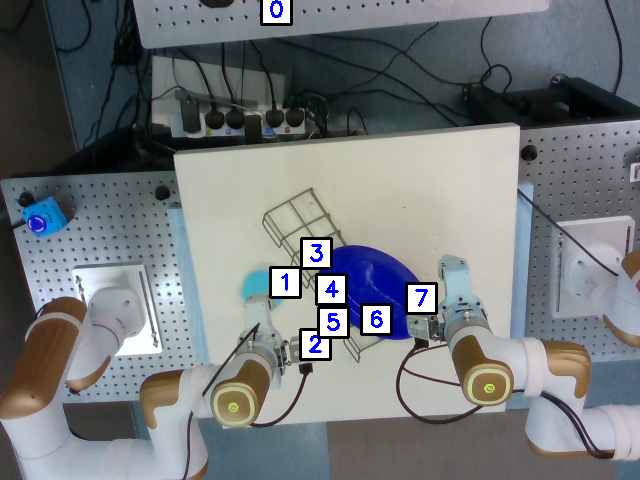
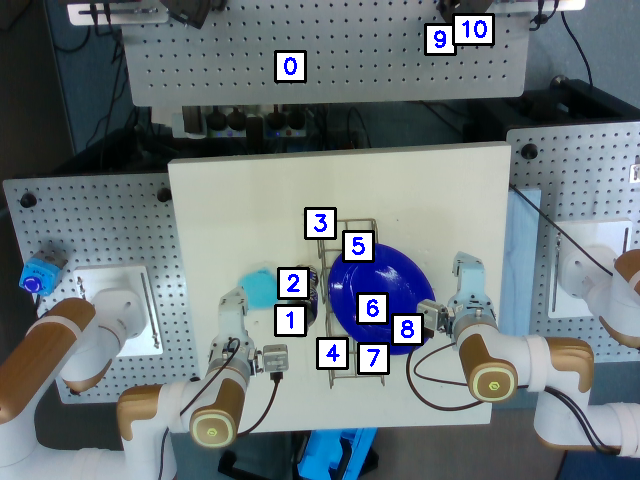
finish the experiments for task-compatiable DP guidance (coarse guidance by gamma ratio)

diff --git a/ModelTrain/dp/learner.py b/ModelTrain/dp/learner.py
@@ -1007,7 +1007,7 @@ class DiffusionPolicy:
 
         # schedule the executed trajectory
         best_trajectory = bimanual_coordinator(
-            mode="bimanual",
+            mode="right_eef_pos",
             traj_origin=traj_origin,
             best_trajectory=best_trajectory
         )
@@ -1046,10 +1046,10 @@ class DiffusionPolicy:
             deterministic=True,
             n_trunc_steps=5,
             noise_scale=1.0,
-            use_dp_noise=False,
-            use_guidance=True,
+            use_dp_noise=True,
+            use_guidance=False,
             last_action=None,
-            gamma = 0.5,
+            gamma = 0.4,
     ):
         # Validate strategy types
         assert composition_strategy in ['stochastic-sampling', 'guided-sampling'], \
@@ -1092,14 +1092,15 @@ class DiffusionPolicy:
                         dp_noise_pred = self.ema_nets["noise_pred_net"](
                             sample=naction, timestep=k, global_cond=obs_cond
                         )
-                        if isinstance(last_action, np.ndarray):
-                            last_action = torch.from_numpy(last_action).to(self.device)
+                        # if isinstance(last_action, np.ndarray):
+                        #     last_action = torch.from_numpy(last_action).to(self.device)
 
                         # map the noise prediction from absolute to delta via jacobian transformation
-                        dp_noise_pred = noise_jocabian_transform(dp_noise_pred, last_action)
+                        # dp_noise_pred = noise_jocabian_transform(dp_noise_pred, last_action)
 
                         # dp_noise_pred = dp_noise_pred - last_action
-                        modulated_noise = (1 + gamma) * dp_noise_pred - gamma * modulated_noise
+                        # modulated_noise = (1 + gamma) * dp_noise_pred - gamma * modulated_noise
+                        modulated_noise = modulated_noise + gamma * dp_noise_pred
 
                     if constraints is not None and use_guidance:
                         # apply constraints
@@ -1161,23 +1162,25 @@ class DiffusionPolicy:
             data = json.load(f)
         keypoints_list = data['init_keypoint_positions']
         keypoints = np.array(keypoints_list)
-    #     T_left_to_right = np.eye(4)
-    #     T_left_to_right[:3, 3] = np.array([0.0, -1.08, 0.0])
-    #     T_left_to_right[:3, :3] = np.array([
-    #     [-1.0,  0.0,  0.0],
-    #     [ 0.0, -1.0,  0.0],
-    #     [ 0.0,  0.0,  1.0]
-    # ])
-    #     # Transform each keypoint individually
-    #     transformed_keypoints = []
-    #     for kp in keypoints:
-    #         kp_hom = np.append(kp, 1.0)  # Convert to homogeneous coordinate [x, y, z, 1]
-    #         kp_transformed_hom = T_left_to_right @ kp_hom  # Apply transformation
-    #         transformed_keypoints.append(kp_transformed_hom[:3])  # Drop the homogeneous part
-    #
-    #     # Convert to NumPy array
-    #     keypoints = np.array(transformed_keypoints)  # shape: (N, 3)
-        # print("keypoints for NBCFs", keypoints)# Shape: (5, 3)
+
+        # compute the transformation matrix from left to right
+        T_left_to_right = np.eye(4)
+        T_left_to_right[:3, 3] = np.array([0.0, -1.08, 0.0])
+        T_left_to_right[:3, :3] = np.array([
+        [-1.0,  0.0,  0.0],
+        [ 0.0, -1.0,  0.0],
+        [ 0.0,  0.0,  1.0]
+    ])
+        # Transform each keypoint individually
+        transformed_keypoints = []
+        for kp in keypoints:
+            kp_hom = np.append(kp, 1.0)  # Convert to homogeneous coordinate [x, y, z, 1]
+            kp_transformed_hom = T_left_to_right @ kp_hom  # Apply transformation
+            transformed_keypoints.append(kp_transformed_hom[:3])  # Drop the homogeneous part
+
+        # Convert to NumPy array
+        keypoints = np.array(transformed_keypoints)  # shape: (N, 3)
+        print("keypoints for NBCFs", keypoints)# Shape: (5, 3)
 
         # <editor-fold desc="utils">
         def unnormalize_traj(trajectory):
@@ -1527,7 +1530,7 @@ class DiffusionPolicy:
 
             # Extract predicted left arm ee positions
             right_ee_position = right_trajectory[:, :, :3]
-            bottle_position = keypoints[5]
+            bottle_position = keypoints[1]
             safe_distance = 0.15  # Minimum distance to the bottle
             scores = np.zeros(self.sampling_batch_size)
 
@@ -1874,7 +1877,7 @@ class DiffusionPolicy:
         # </editor-fold>
 
 
-        return lower_both_hands_vertical
+        return avoid_right_collision
 
 
     def coordination_constraints(

diff --git a/ModelTrain/dp/vis_utils.py b/ModelTrain/dp/vis_utils.py
@@ -87,12 +87,12 @@ def visualize_trajectory(left_ee_positions, right_ee_positions, best_trajectory)
                 best_left_ee_positions[0, 2],  # Start Z
                 color='green', marker='o', s=100, label="Start Point")  # Green Start
 
-    # Mark left target position
-    l_target_position = [0.012025, -0.491919, 0.13673]
-    ax1.scatter(l_target_position[0],  # Start X
-                l_target_position[1],  # Start Y
-                l_target_position[2],  # Start Z
-                color='purple', marker='^', s=100, label="Target Point")  # purple target
+    # # Mark left target position
+    # l_target_position = [0.012025, -0.491919, 0.13673]
+    # ax1.scatter(l_target_position[0],  # Start X
+    #             l_target_position[1],  # Start Y
+    #             l_target_position[2],  # Start Z
+    #             color='purple', marker='^', s=100, label="Target Point")  # purple target
 
     ax1.scatter(best_left_ee_positions[ -1, 0],  # End X
                 best_left_ee_positions[-1, 1],  # End Y
@@ -140,20 +140,20 @@ def visualize_trajectory(left_ee_positions, right_ee_positions, best_trajectory)
                 best_right_ee_positions[-1, 2],  # End Z
                 color='red', marker='X', s=150, label="End Point")  # Red End
 
-    # Mark right target position
-    T_left_to_right = np.eye(4)
-    T_left_to_right[:3, 3] = np.array([0.0, -1.08, 0.0])
-    T_left_to_right[:3, :3] = np.array([
-        [-1.0, 0.0, 0.0],
-        [0.0, -1.0, 0.0],
-        [0.0, 0.0, 1.0]
-    ])
-    # Transform left target position to right arm frame
-    r_target_position = T_left_to_right @ np.append(l_target_position, 1.0)
-    ax2.scatter(r_target_position[0],  # End X
-                r_target_position[1],  # End Y
-                r_target_position[2],  # End Z
-                color='purple', marker='^', s=100, label="Target Point")  # Red End
+    # # Mark right target position
+    # T_left_to_right = np.eye(4)
+    # T_left_to_right[:3, 3] = np.array([0.0, -1.08, 0.0])
+    # T_left_to_right[:3, :3] = np.array([
+    #     [-1.0, 0.0, 0.0],
+    #     [0.0, -1.0, 0.0],
+    #     [0.0, 0.0, 1.0]
+    # ])
+    # # Transform left target position to right arm frame
+    # r_target_position = T_left_to_right @ np.append(l_target_position, 1.0)
+    # ax2.scatter(r_target_position[0],  # End X
+    #             r_target_position[1],  # End Y
+    #             r_target_position[2],  # End Z
+    #             color='purple', marker='^', s=100, label="Target Point")  # Red End
 
 
     ax2.view_init(elev=10, azim=0)

diff --git a/ModelTrain/dp/utils.py b/ModelTrain/dp/utils.py
@@ -207,15 +207,44 @@ def quaternion_from_6d_rotation(rot6d: Union[torch.tensor, np.ndarray]) -> torch
     return q
 
 # === Approximate Jacobian matrix for transforming pose noise (single sample)
+# def compute_approx_jacobian(R_ref: torch.Tensor) -> torch.Tensor:
+#     """
+#     R_ref: [3, 3] - reference rotation matrix
+#     return: [9, 9] - approximate Jacobian matrix for pose transformation
+#     """
+#     J = torch.zeros(9, 9, device=R_ref.device)
+#     R_T = R_ref.T
+#     J[0:3, 0:3] = R_T  # Translation part
+#
+#     kron_result = torch.kron(torch.eye(2, device=R_ref.device), R_T)
+#     kron_result = kron_result.reshape(6, 6)
+#
+#     J[3:9, 3:9] = kron_result
+#     return J
+
+
 def compute_approx_jacobian(R_ref: torch.Tensor) -> torch.Tensor:
     """
     R_ref: [3, 3] - reference rotation matrix
     return: [9, 9] - approximate Jacobian matrix for pose transformation
     """
+    # 确保R_ref是连续的
+    R_ref = R_ref.contiguous()
     J = torch.zeros(9, 9, device=R_ref.device)
     R_T = R_ref.T
-    J[0:3, 0:3] = R_T                            # Translation part
-    J[3:9, 3:9] = torch.kron(torch.eye(2, device=R_ref.device), R_T)  # Rotation part (6D)
+
+    # 直接赋值平移部分
+    J[0:3, 0:3] = R_T
+
+    # 手动构建旋转部分的Kronecker乘积
+    eye2 = torch.eye(2, device=R_ref.device)
+    for i in range(2):
+        for j in range(2):
+            if eye2[i, j] > 0:  # 对于单位矩阵，只有对角线元素为1
+                start_row = 3 + i * 3
+                start_col = 3 + j * 3
+                J[start_row:start_row + 3, start_col:start_col + 3] = R_T
+
     return J
 
 # === Main function: transform dual-arm action noise from world frame to reference frame
